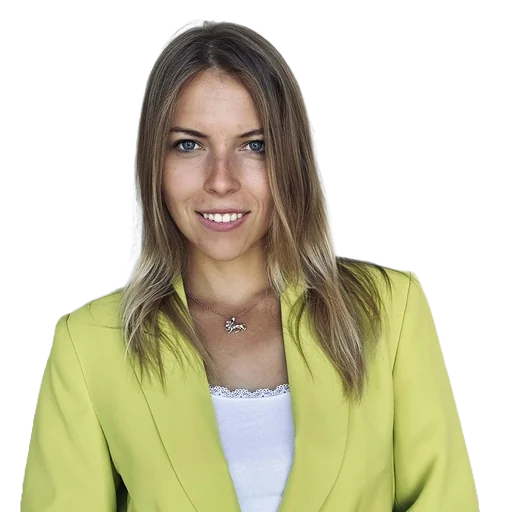
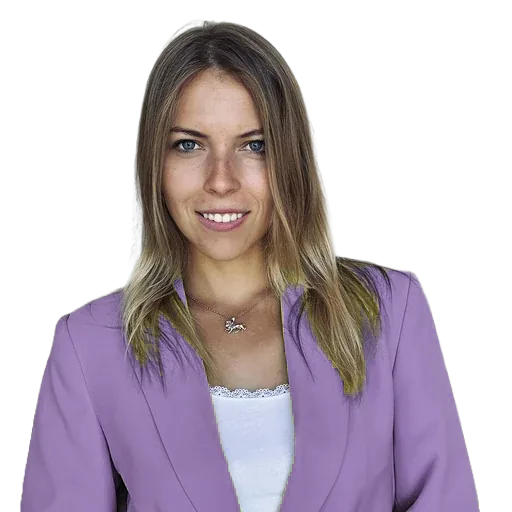
Fialove sako v hero fotke a kremovy prepinac galerie
Prepinac galerie ma pozadie var(--cream) a ziadny ramik.

Sako v assets/simona-portret.webp je z limetkovej prefarbene do jemnej
fialovej. Maska je z odtienu a sytosti, pixely v pasme 48 az 92 stupnov
s okrajovym prechodom, pod riadkom 230, takze vlasy, plet, biele tricko
ani zuby sa nedotkli. 71 137 pixelov, 27 % obrazka. Priehladnost zostala,
subor ma 29,1 kB namiesto povodnych 31,5 kB.

Changed region(s): [[0.5312, 0.5, 0.9375, 1.0], [0.0312, 0.5625, 0.4688, 1.0], [0.3438, 0.5312, 0.375, 0.5938]]

diff --git a/ukazky/studio-lume/style.css b/ukazky/studio-lume/style.css
@@ -1210,7 +1210,8 @@ section {
 .gallery-switch {
   display: none;
   margin-bottom: 0;
-  border-color: var(--rule);
+  background: var(--cream);
+  border-color: transparent;
 }
 
 .gallery-switch.is-live {

diff --git a/ukazky/studio-lume/style.scss b/ukazky/studio-lume/style.scss
@@ -1394,7 +1394,8 @@ section {
 .gallery-switch {
   display: none;
   margin-bottom: 0;
-  border-color: var(--rule);
+  background: var(--cream);
+  border-color: transparent;
 }
 
 .gallery-switch.is-live {
